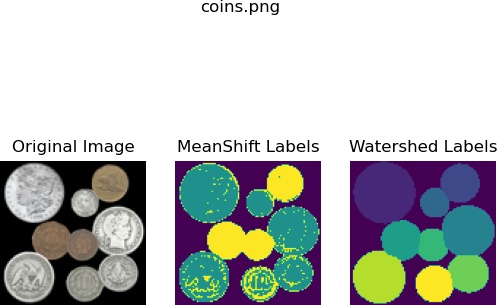
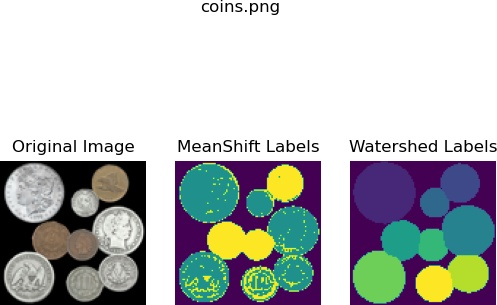
8 to 9

Changed region(s): [[0.6942, 0.7967, 0.8149, 1.0], [0.9054, 0.8262, 0.996, 0.9738]]

diff --git a/lab3/test.py b/lab3/test.py
@@ -153,7 +153,7 @@ for img_path in ext_images:
     grey = img.convert('L')
     img_array = np.array(grey)
     distance = ndi.distance_transform_edt(img_array)
-    local_maxi = peak_local_max(distance, threshold_abs=8, indices=False, footprint=np.ones((1, 1)),
+    local_maxi = peak_local_max(distance, threshold_abs=9, indices=False, footprint=np.ones((1, 1)),
                                 labels=img_array)
     markers = ndi.label(local_maxi)[0]
 
